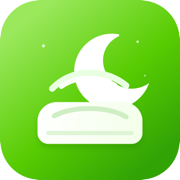
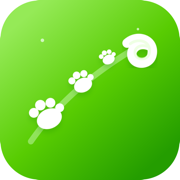
Add cat paw sleep trail identity

Changed region(s): [[0.1389, 0.1389, 0.8889, 0.8056], [0.2222, 0.1944, 0.25, 0.2778]]

diff --git a/index.html b/index.html
@@ -144,7 +144,6 @@
       }
 
       .brand-mark {
-        position: relative;
         width: 42px;
         height: 42px;
         border: 1px solid #bdeab2;
@@ -152,29 +151,13 @@
         background: linear-gradient(180deg, #88df41, var(--green));
         box-shadow: var(--soft-shadow);
         flex-shrink: 0;
+        display: block;
       }
 
-      .brand-mark::before {
-        content: "";
-        position: absolute;
-        left: 9px;
-        top: 11px;
-        width: 22px;
-        height: 14px;
-        border-radius: 999px 999px 8px 8px;
-        background: #fff;
-      }
-
-      .brand-mark::after {
-        content: "";
-        position: absolute;
-        left: 13px;
-        top: 16px;
-        width: 14px;
-        height: 2px;
-        border-radius: 999px;
-        background: #2f7d09;
-        box-shadow: 0 6px 0 rgba(47, 125, 9, 0.22);
+      .brand-mark svg {
+        display: block;
+        width: 100%;
+        height: 100%;
       }
 
       .eyebrow {
@@ -807,7 +790,22 @@
     <main class="app-shell">
       <section class="topbar" aria-label="今日概览">
         <div class="brand-lockup">
-          <div class="brand-mark" aria-hidden="true"></div>
+          <div class="brand-mark" aria-hidden="true">
+            <svg viewBox="0 0 64 64">
+              <path d="M12 48c12-16 26-26 42-32" fill="none" stroke="#d9ffd1" stroke-width="4" stroke-linecap="round" opacity="0.72"/>
+              <g fill="#ffffff">
+                <ellipse cx="18" cy="43" rx="6.5" ry="5.2" transform="rotate(-24 18 43)"/>
+                <circle cx="12.5" cy="36" r="2.4"/>
+                <circle cx="17" cy="33.8" r="2.4"/>
+                <circle cx="22.2" cy="34.7" r="2.4"/>
+                <ellipse cx="31" cy="34" rx="4.8" ry="3.8" transform="rotate(-24 31 34)"/>
+                <circle cx="27" cy="29" r="1.8"/>
+                <circle cx="30.5" cy="27.5" r="1.8"/>
+                <circle cx="34.2" cy="28.2" r="1.8"/>
+              </g>
+              <path d="M44 20c5-4 12-1 11 5-.8 4.7-7.2 4.9-8.4 1.2-1.1-3.4 2.6-6.3 6.8-4.9" fill="none" stroke="#ffffff" stroke-width="4.5" stroke-linecap="round"/>
+            </svg>
+          </div>
           <div>
             <p class="eyebrow" id="todayLabel">今天</p>
             <h1>眠迹</h1>
